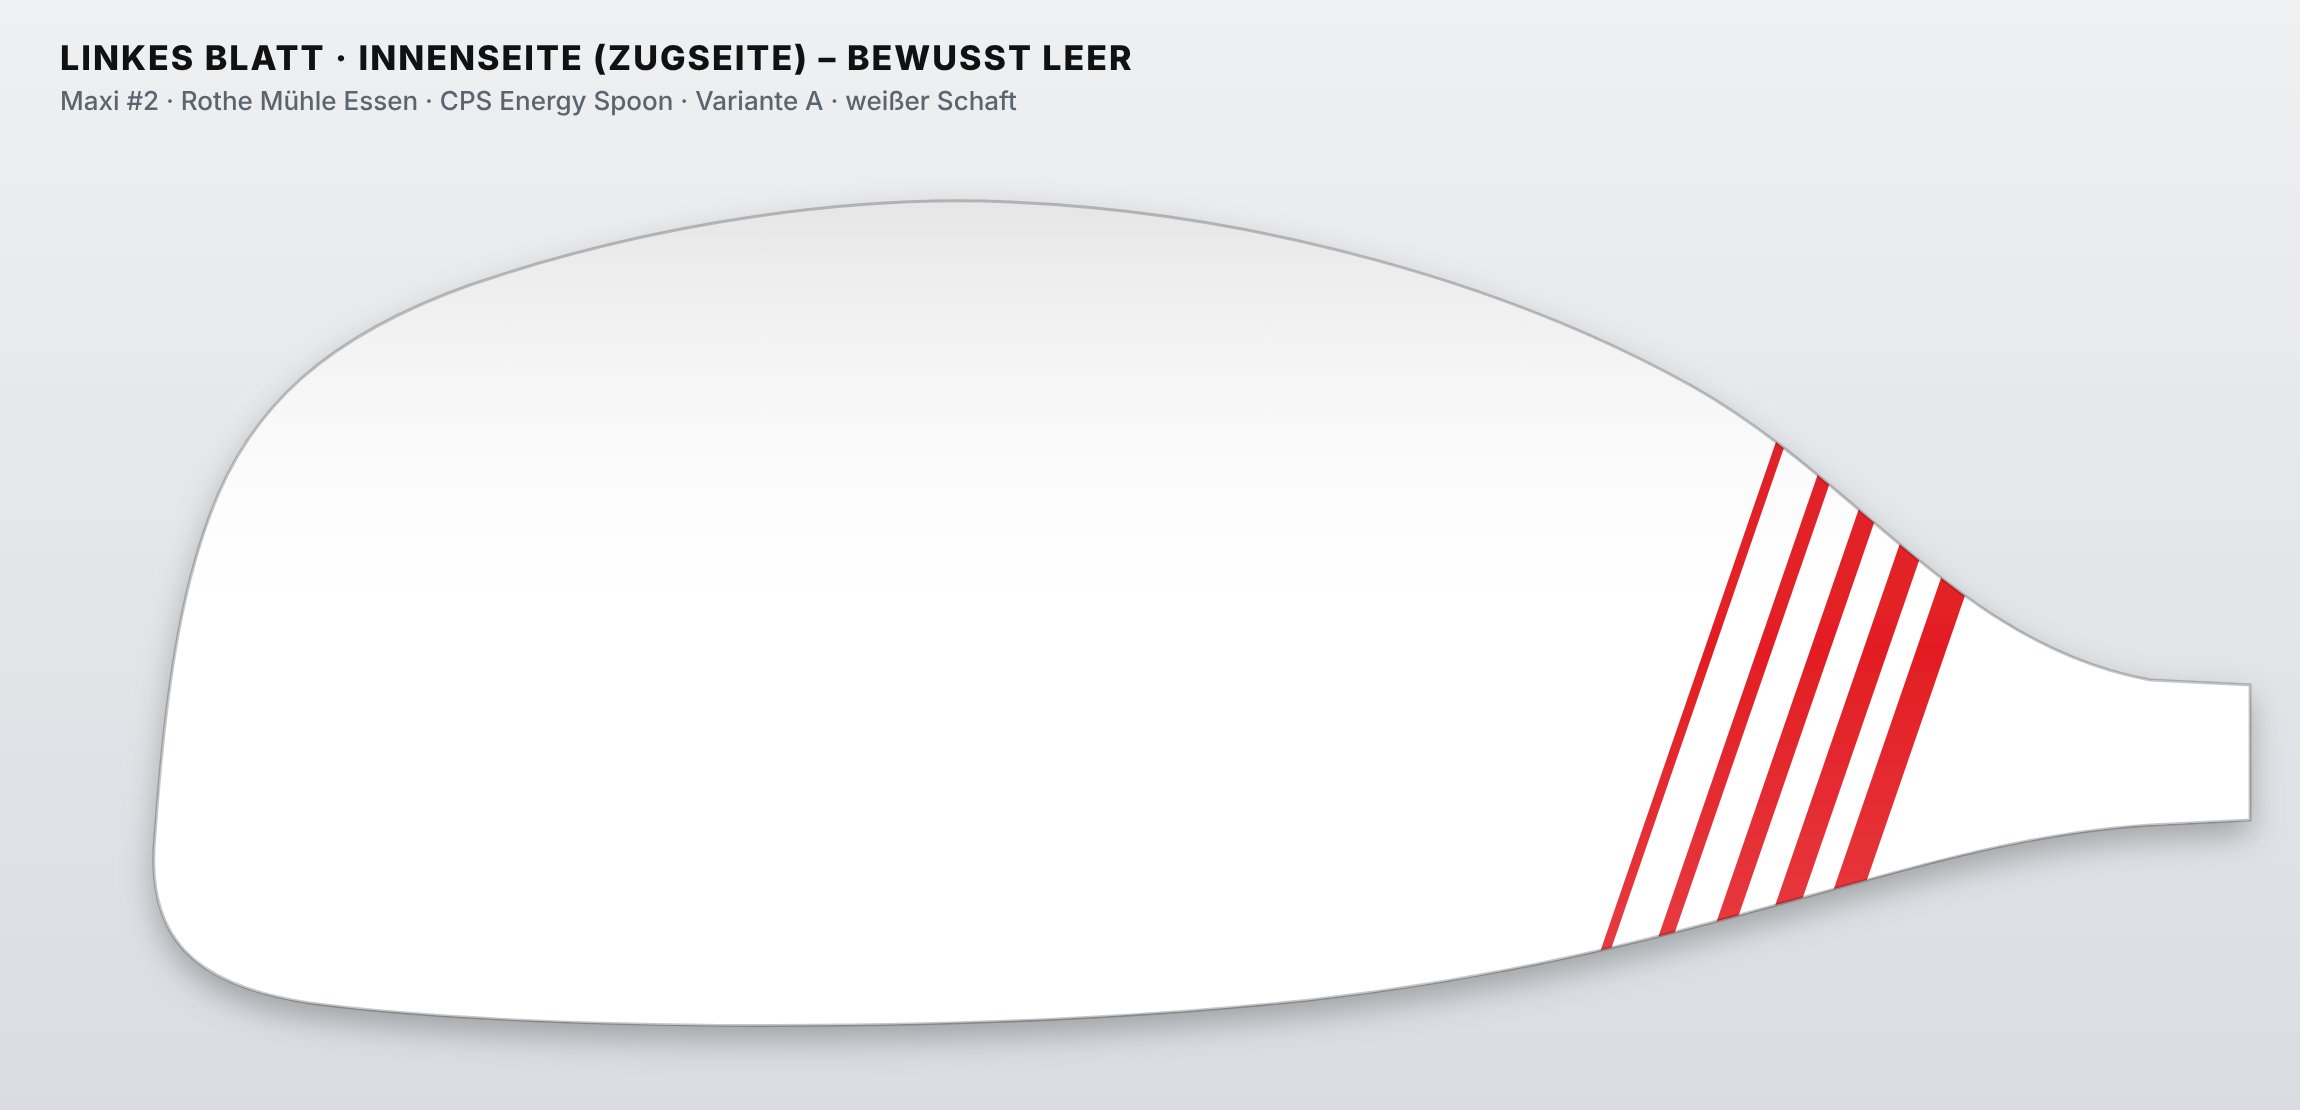
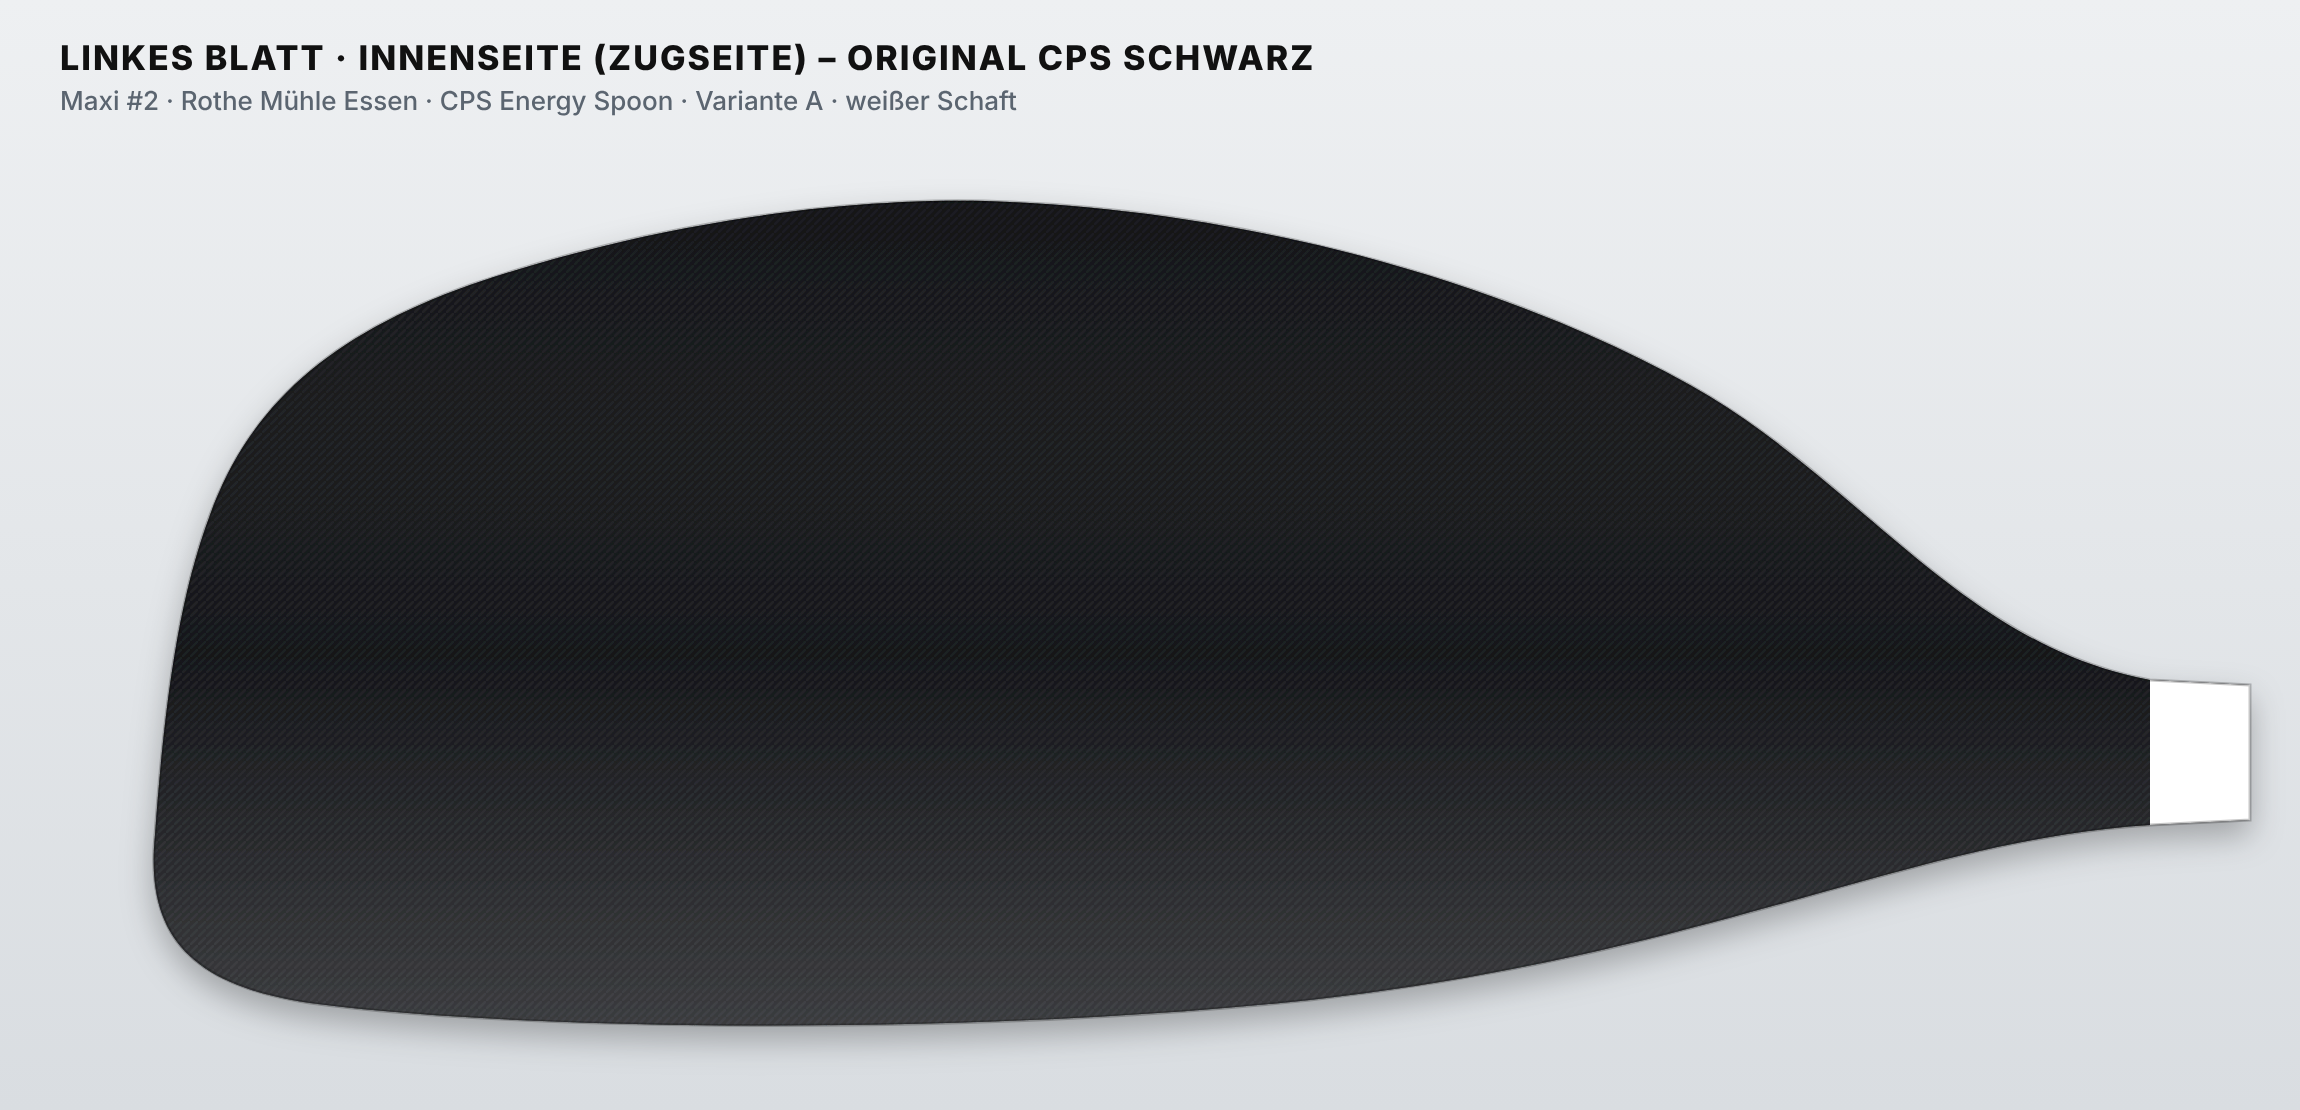
Paddle design: black inner faces, club name on shaft, drop slogan
Claude-Session: https://claude.ai/code/session_01DX4xT44m4txGG7n6gz6xyQ

diff --git a/maxi-paddel/build/design.js b/maxi-paddel/build/design.js
@@ -48,6 +48,8 @@ const txt = (x, y, size, fill, s, o = {}) =>
 function art(variant, side, face, X) {
   const R = side === 'R';
   let shapes = '', marks = '';
+  // inner (power) face stays the original black CPS carbon blade
+  if (face === 'front') return { shapes: `<rect x="-300" y="-20" width="2600" height="900" fill="#17181b"/><rect x="-300" y="-20" width="2600" height="900" fill="url(#carbon)" opacity="0.55"/>`, marks };
   const sub = (u, v, color, c2) => {
     const w = 100 + 20 + 390;
     const x0 = X(u) - w / 2;
@@ -111,7 +113,7 @@ function bladeGroup(variant, side, face) {
     </g></g>`;
 }
 const label = (x, y, a, b) => txt(x, y, 34, '#111', a, { anchor: 'start', italic: false, w: 800, ls: 2 }) + txt(x, y + 40, 26, '#5b6570', b, { anchor: 'start', italic: false, w: 500 });
-const NAME = { R: 'RECHTES BLATT', L: 'LINKES BLATT', back: 'Rückseite (Designseite)', front: 'Innenseite (Zugseite) – bewusst leer', A: 'Variante A · weißer Schaft', B: 'Variante B · schwarzer Schaft' };
+const NAME = { R: 'RECHTES BLATT', L: 'LINKES BLATT', back: 'Rückseite (Designseite)', front: 'Innenseite (Zugseite) – original CPS schwarz', A: 'Variante A · weißer Schaft', B: 'Variante B · schwarzer Schaft' };
 
 function bladeSVG(variant, side, face) {
   return `<svg xmlns="http://www.w3.org/2000/svg" width="${CW}" height="${CH + 110}" viewBox="0 0 ${CW} ${CH + 110}">${defs}
@@ -130,10 +132,8 @@ function shaftGroup(variant, face = 'back') {
   g += `<rect width="150" height="${ST}" fill="${ring}"/><rect x="${SL - 150}" width="150" height="${ST}" fill="${ring}"/>` + rings(180, 1) + rings(SL - 180, -1);
   if (face === 'back') {
     g += wheelAt(SL / 2, ST / 2, 46, ink);
-    g += txt(SL / 2 - 90, ST / 2 + 21, 60, ink, 'ROTHE MÜHLE ESSEN', { anchor: 'end', ls: 10 });
+    g += txt(SL / 2 - 90, ST / 2 + 21, 60, ink, 'KSV ROTHE MÜHLE ESSEN', { anchor: 'end', ls: 10 });
     g += txt(SL / 2 + 90, ST / 2 + 21, 60, ink, 'MAXI  #2', { anchor: 'start', ls: 10 });
-    g += txt(600, ST / 2 + 13, 36, ink, 'GEMEINSAM STARK', { anchor: 'start', ls: 10, w: 700 });
-    g += txt(SL - 600, ST / 2 + 13, 36, ink, 'SEIT 1924', { anchor: 'end', ls: 10, w: 700 });
   }
   g += `<rect width="${SL}" height="${ST}" fill="url(#tube)"/><rect width="${SL}" height="${ST}" fill="none" stroke="#000" stroke-opacity="0.25" stroke-width="2"/>`;
   return g;
@@ -168,10 +168,10 @@ function boardSVG(variant) {
   ${txt(200, 118, 30, WHITE, `KSV Rothe Mühle Essen · CPS Energy Spoon · ${NAME[variant]}`, { anchor: 'start', italic: false, w: 500 })}
   ${label(60, 240, 'GESAMTANSICHT · RÜCKSEITE', 'Designseite beider Blätter')}
   <g transform="translate(60 290) scale(${s})">${paddle(variant, 'back')}</g>
-  ${label(60, 700, 'GESAMTANSICHT · INNENSEITE', 'Zugseite – ohne Grafik, nur Farbe')}
+  ${label(60, 700, 'GESAMTANSICHT · INNENSEITE', 'Zugseite – original CPS schwarz, ohne Grafik')}
   <g transform="translate(60 750) scale(${s})">${paddle(variant, 'front')}</g>
   ${tile('L', 'back', 60, 1130)}${tile('R', 'back', 1680, 1130)}
-  ${[0, 1].map((i) => `<g transform="translate(${i ? 1680 : 60} 1850) scale(0.36)">${bladeGroup(variant, i ? 'R' : 'L', 'front')}</g>` + label((i ? 1680 : 60) + 880, 1990, i ? NAME.R : NAME.L, 'Innenseite – leer')).join('')}
+  ${[0, 1].map((i) => `<g transform="translate(${i ? 1680 : 60} 1850) scale(0.36)">${bladeGroup(variant, i ? 'R' : 'L', 'front')}</g>` + label((i ? 1680 : 60) + 880, 1990, i ? NAME.R : NAME.L, 'Innenseite – original schwarz')).join('')}
   </svg>`;
 }
 
